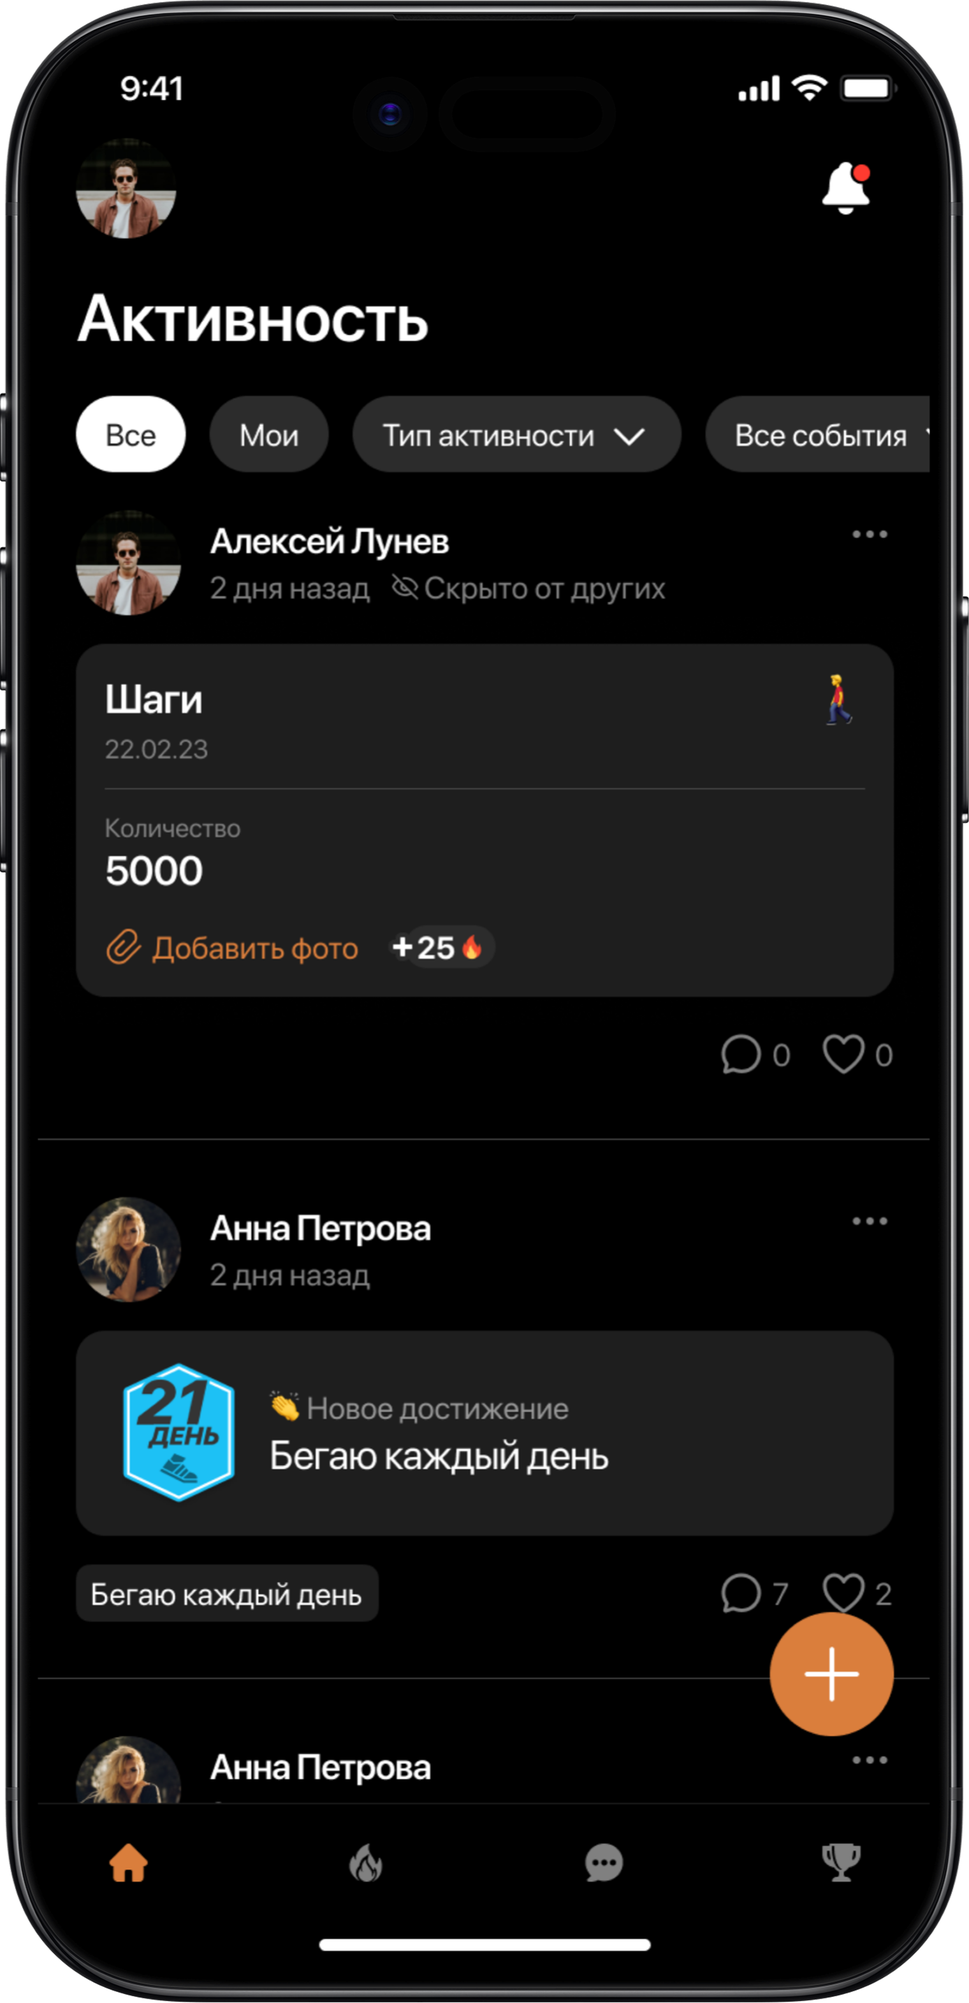
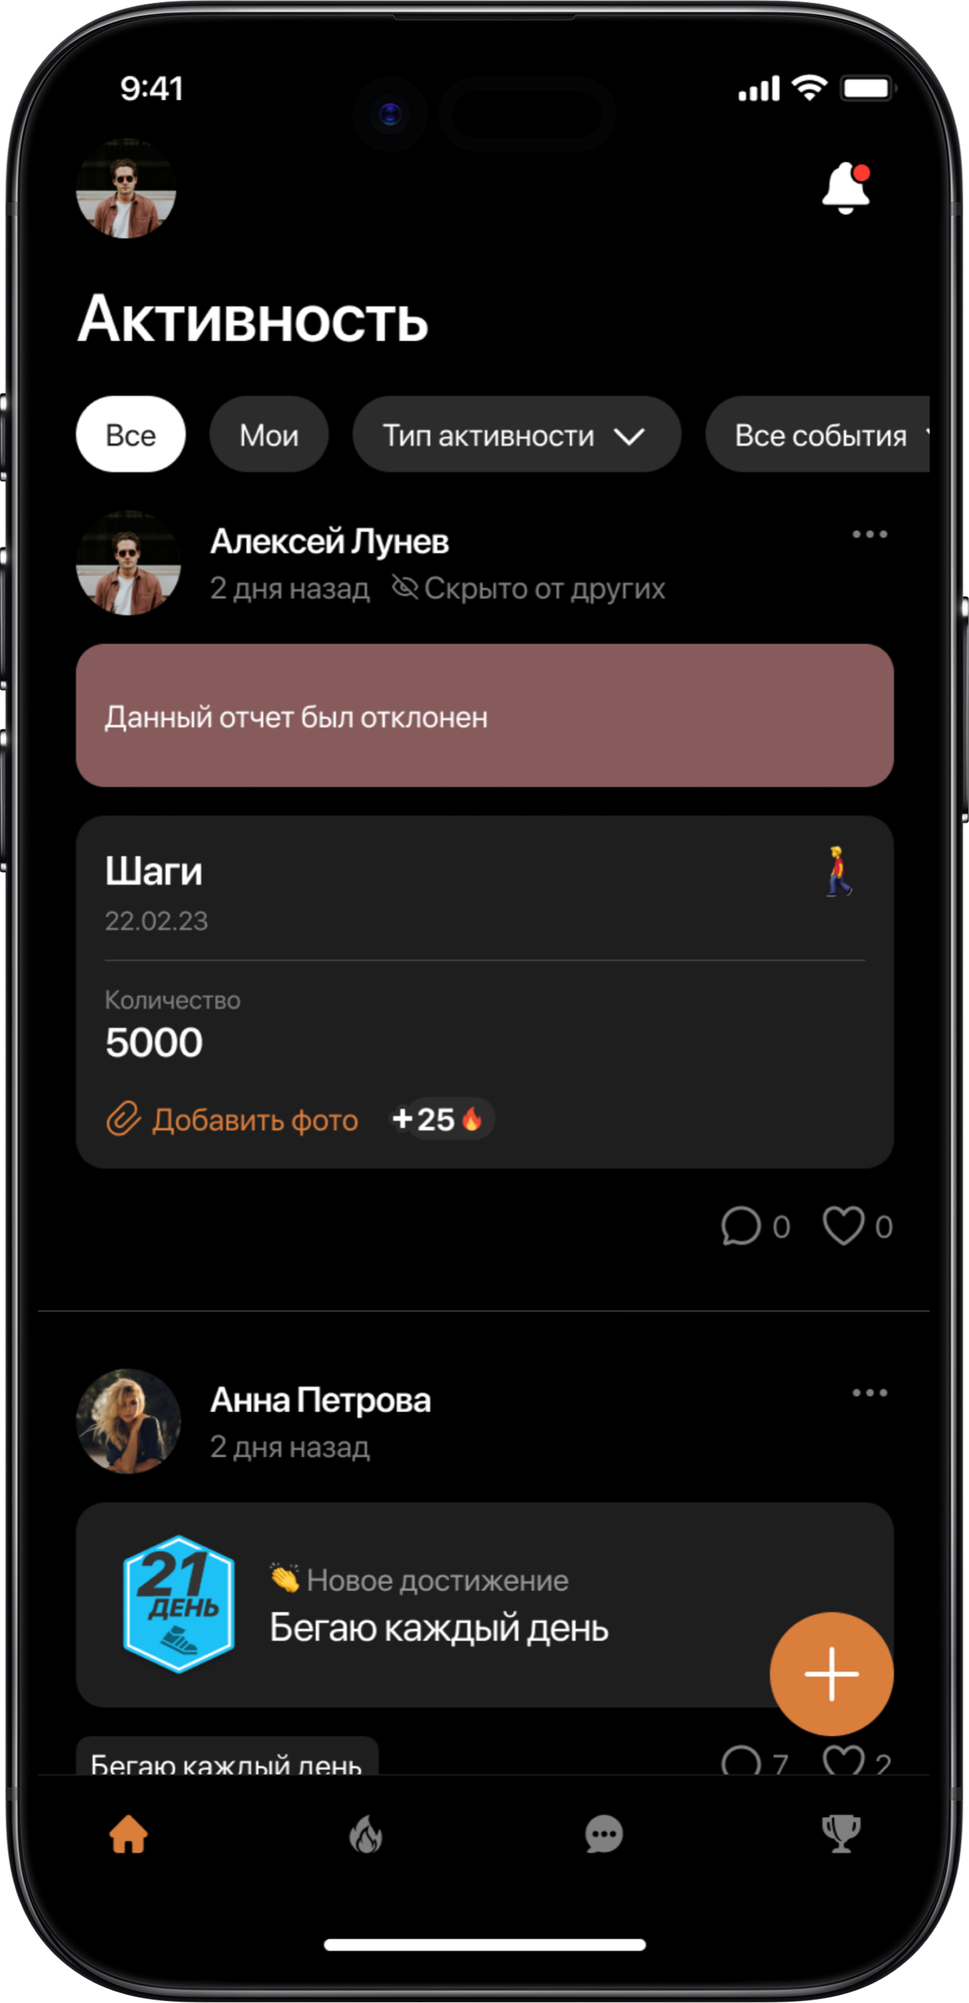
Align project layouts and update HealthFit redesign comparisons

Changed region(s): [[0.0618, 0.3118, 0.9276, 0.9354], [0.8349, 0.8731, 0.9276, 0.9354], [0.5875, 0.9042, 0.6493, 0.9354]]

diff --git a/lib/projects.ts b/lib/projects.ts
@@ -7,13 +7,13 @@ export type ProjectSection =
   | {
       kind: 'gallery';
       title?: string;
+      description?: { label: string; text: string }[];
       metric?: { label: string; value: string };
       images?: { src: string; alt?: string; aspect?: 'wide' | 'tall' | 'square' }[];
       // Explicit rows: each inner array is one row, all items share equal width.
       // Use when the editor wants precise control over which screens sit next to each other.
       rows?: string[][];
-      // Optional "before" screens for this section. When set, clicking the gallery
-      // swaps all new screens for these old ones (and back).
+      // Previous screens displayed next to the redesign.
       old?: string[];
       // 'fit' = stack each image at natural aspect, full width, no crop (good for web shots).
       // 'crop' (default for rows / legacy) = uniform aspect frame, object-cover.
@@ -164,6 +164,12 @@ export const projects: Project[] = [
       {
         kind: 'gallery',
         title: 'Регистрация',
+        description: [
+          { label: 'Контекст', text: 'Раньше для регистрации требовались логин и пароль. Это занимало много времени.' },
+          { label: 'Задача', text: 'Упростить регистрацию и вход в приложение.' },
+          { label: 'Инсайт', text: 'Пользователю приходилось запоминать логин и пароль, а затем переходить в почту, чтобы скопировать код подтверждения.' },
+          { label: 'Решение', text: 'Теперь пользователь вводит номер телефона и подтверждает его кодом из СМС. На втором экране видно, куда отправлен код. Его можно подставить одним нажатием на подсказку над клавиатурой.' },
+        ],
         metric: { label: 'Время прохождения регистрации', value: '-46%' },
         rowAspect: 'tall',
         old: [hf('reg-old', 1), hf('reg-old', 2), hf('reg-old', 3)],
@@ -172,14 +178,26 @@ export const projects: Project[] = [
       {
         kind: 'gallery',
         title: 'Главный экран',
+        description: [
+          { label: 'Контекст', text: 'Пользователи открывали приложение и не понимали, куда перейти с главного экрана и чем здесь можно заняться.' },
+          { label: 'Задача', text: 'Сделать навигацию понятной, чтобы с первого экрана было видно, зачем заходить в приложение.' },
+          { label: 'Инсайт', text: 'На вопрос «Чем заняться сегодня?» проще ответить, когда перед глазами есть конкретные занятия. По названиям разделов трудно представить, что ждёт внутри.' },
+          { label: 'Решение', text: 'Переработал главный экран и превратил его в каталог активностей. Теперь выбрать занятие можно сразу при входе в приложение.' },
+        ],
         metric: { label: 'MAU', value: '+36%' },
         old: [hf('main-old', 1)],
         rowAspect: 'tall',
-        rows: [[hf('main', 1)]],
+        rows: [[hf('main-redesign', 1), hf('main-redesign', 2)]],
       },
       {
         kind: 'gallery',
         title: 'Мои активности',
+        description: [
+          { label: 'Контекст', text: 'В разделе со своими активностями пользователи долго искали курс или трекер, в котором нужно было отметить выполнение.' },
+          { label: 'Задача', text: 'Выяснить, что мешает поиску, и помочь пользователям быстрее находить свои активности.' },
+          { label: 'Инсайт', text: 'Разговор о разделе «Мои активности» вышел за его рамки. Пользователи поделились общим впечатлением от приложения и рассказали о трудностях в других разделах.' },
+          { label: 'Решение', text: 'Разделил активности по направлениям и добавил индикаторы прогресса. Теперь видно, какие занятия уже пройдены и что можно продолжить.' },
+        ],
         metric: { label: 'Retention rate', value: '+10%' },
         old: [hf('my-old', 1)],
         rowAspect: 'tall',
@@ -188,6 +206,13 @@ export const projects: Project[] = [
       {
         kind: 'gallery',
         title: 'Каталог и карточка тренировки',
+        description: [
+          { label: 'Контекст', text: 'Каталог и карточки тренировок нужно было доработать вместе с главным экраном.' },
+          { label: 'Задача', text: 'Упростить карточки активностей и сделать текст курса удобнее для чтения.' },
+          { label: 'Инсайт', text: 'Кнопками «О клубе» и «Чат клуба» никто не пользовался.' },
+          { label: 'Решение', text: 'Убрал из карточек невостребованные кнопки. Добавил серую подложку под текст курса и изменил цвет текста, чтобы его было легче читать.' },
+        ],
+        metric: { label: 'Выполненных заданий на платформе', value: '+2.2%' },
         old: [hf('catalog-old', 1), hf('catalog-old', 2)],
         rowAspect: 'tall',
         rows: [[hf('catalog', 1), hf('catalog', 2)]],
@@ -195,6 +220,12 @@ export const projects: Project[] = [
       {
         kind: 'gallery',
         title: 'ИИ помощник',
+        description: [
+          { label: 'Контекст', text: 'В каталоге более 300 курсов, челленджей и трекеров. Пользователям было сложно выбрать подходящее занятие.' },
+          { label: 'Задача', text: 'Добавить персональные рекомендации.' },
+          { label: 'Инсайт', text: 'Пользователям важно, чтобы даже небольшие усилия замечали. Они хотят получать похвалу за свои действия.' },
+          { label: 'Решение', text: 'Создал ИИ-помощника, который подбирает занятия по ответам на вопросы теста. Добавил раздел, где можно посмотреть, что помощник узнал о пользователе.' },
+        ],
         metric: { label: 'Конверсия теста', value: '+30%' },
         old: [hf('ai-old', 1)],
         rowAspect: 'tall',
@@ -206,6 +237,12 @@ export const projects: Project[] = [
       {
         kind: 'gallery',
         title: 'Активность',
+        description: [
+          { label: 'Контекст', text: 'После отклонения отчёта в ленте активности пользователи писали в поддержку. Также поступали жалобы на списание баллов, которые пользователи не тратили на товары.' },
+          { label: 'Задача', text: 'Снизить нагрузку на поддержку и упростить общение с пользователями.' },
+          { label: 'Инсайт', text: 'Пользователь был уверен, что отправил корректный отчёт. Он видел отметку об отклонении, но не понимал, где искать объяснение.' },
+          { label: 'Решение', text: 'Сделал причину отклонения заметнее и добавил возможность быстро подать апелляцию.' },
+        ],
         metric: { label: 'Обращения в поддержку по отклонённым отчётам', value: '−36%' },
         old: [hf('activity-old', 1)],
         rowAspect: 'tall',
@@ -214,6 +251,11 @@ export const projects: Project[] = [
       {
         kind: 'gallery',
         title: 'Маркетплейс',
+        description: [
+          { label: 'Контекст', text: 'Пользователям не всегда хватало коинов на желанный товар. Пока они копили нужную сумму, товар мог закончиться.' },
+          { label: 'Задача', text: 'Дать пользователю возможность купить товар, даже если коинов пока не хватает.' },
+          { label: 'Решение', text: 'Добавил доплату рублями. Теперь часть стоимости можно покрыть коинами, а остаток оплатить банковской картой.' },
+        ],
         metric: { label: 'Средний чек', value: 'Скоро будут результаты' },
         old: [hf('market-old', 1), hf('market-old', 2)],
         rowAspect: 'tall',

diff --git a/app/projects/[slug]/page.tsx b/app/projects/[slug]/page.tsx
@@ -4,7 +4,6 @@ import { projects, getProject, type ProjectSection } from '@/lib/projects';
 import { site, withBase } from '@/lib/site';
 import { Header } from '@/components/Header';
 import { Footer } from '@/components/Footer';
-import { CompareGallery } from '@/components/CompareGallery';
 
 type Params = Promise<{ slug: string }>;
 
@@ -35,8 +34,8 @@ export default async function ProjectPage({ params }: { params: Params }) {
       <Header />
 
       {/* Case hero */}
-      <section className="pt-32 md:pt-40 pb-16 md:pb-24 px-6 md:px-10">
-        <div className="mx-auto max-w-page">
+      <section className="pt-32 md:pt-40 pb-16 md:pb-24 px-[max(16px,3.5%)]">
+        <div className="mx-auto w-full">
           <Link
             href="/#projects"
             className="inline-flex items-center gap-2 font-display font-medium text-xs uppercase tracking-wider text-chalk-300 underline-grow"
@@ -65,7 +64,7 @@ export default async function ProjectPage({ params }: { params: Params }) {
 
       {/* Cover image — default 320px (mobile-screen size), per-project override via coverWidth */}
       {project.cover && (
-        <div className="px-6 md:px-10">
+        <div className="px-[max(16px,3.5%)]">
           <div className="mx-auto" style={{ maxWidth: project.coverWidth ?? 320 }}>
             <div className="overflow-hidden rounded-2xl bg-ink-800 hairline border">
               <img
@@ -80,8 +79,8 @@ export default async function ProjectPage({ params }: { params: Params }) {
 
       {/* Outcome — surfaced right after the cover, before the deep-dive sections */}
       {project.outcome && (
-        <section className="px-6 md:px-10 pt-16 md:pt-24">
-          <div className="mx-auto max-w-page">
+        <section className="px-[max(16px,3.5%)] pt-16 md:pt-24">
+          <div className="mx-auto w-full">
             <div className="rounded-2xl border hairline p-8 md:p-12 bg-ink-800/50">
               <p className="font-display font-medium text-xs uppercase tracking-[0.18em] text-chalk-300 mb-4">
                 Результат
@@ -111,8 +110,8 @@ export default async function ProjectPage({ params }: { params: Params }) {
       )}
 
       {/* Sections */}
-      <article className="px-6 md:px-10 py-20 md:py-32">
-        <div className="mx-auto max-w-page space-y-20 md:space-y-32">
+      <article className="px-[max(16px,3.5%)] py-20 md:py-32">
+        <div className="mx-auto w-full space-y-20 md:space-y-32">
           {project.sections.map((section, i) => (
             <SectionBlock key={i} section={section} index={i} />
           ))}
@@ -120,8 +119,8 @@ export default async function ProjectPage({ params }: { params: Params }) {
       </article>
 
       {/* Next project */}
-      <section className="border-t hairline px-6 md:px-10 py-16 md:py-24">
-        <div className="mx-auto max-w-page">
+      <section className="border-t hairline px-[max(16px,3.5%)] py-16 md:py-24">
+        <div className="mx-auto w-full">
           <Link href={`/projects/${next.slug}`} className="group block">
             <p className="font-display font-medium text-xs uppercase tracking-[0.18em] text-chalk-300 mb-3">
               Следующий проект
@@ -142,7 +141,7 @@ export default async function ProjectPage({ params }: { params: Params }) {
         </div>
       </section>
 
-      <Footer />
+      <Footer wide />
     </main>
   );
 }
@@ -160,7 +159,7 @@ function Meta({ label, children }: { label: string; children: React.ReactNode })
 
 function MetricCard({ label, value }: { label: string; value: string }) {
   return (
-    <div className="mx-auto w-full max-w-[480px] rounded-[28px] bg-[#202122] px-6 py-5 sm:px-7 sm:py-6">
+    <div className="w-full rounded-[28px] bg-[#202122] px-6 py-5 sm:px-7 sm:py-6">
       <p className="text-xl text-chalk-300">{label}</p>
       <p className={`mt-2 leading-tight tracking-tight text-chalk-50 ${value.length > 10 ? 'text-xl sm:text-2xl' : 'text-3xl sm:text-4xl'}`}>{value}</p>
     </div>
@@ -169,6 +168,40 @@ function MetricCard({ label, value }: { label: string; value: string }) {
 
 function SectionBlock({ section, index }: { section: ProjectSection; index: number }) {
   if (section.kind === 'gallery') {
+    if (section.rows && section.old) {
+      return (
+        <section className="grid items-start gap-6 md:grid-cols-2 lg:grid-cols-[0.85fr_1fr_1fr] lg:gap-8">
+          <div className="min-w-0 space-y-5 md:col-span-2 lg:col-span-1">
+            <h3 className="font-display text-xl md:text-2xl font-medium leading-tight tracking-tight">{section.title}</h3>
+            {section.metric && <MetricCard {...section.metric} />}
+            <dl className="max-w-prose space-y-4 leading-relaxed">
+              {section.description?.map(({ label, text }) => (
+                <div key={label}>
+                  <dt className="font-semibold text-white">{label}</dt>
+                  <dd className="text-chalk-300">{text}</dd>
+                </div>
+              ))}
+            </dl>
+          </div>
+          {[
+            { label: 'После редизайна', screens: section.rows.flat() },
+            { label: 'До редизайна', screens: section.old },
+          ].map(({ label, screens }) => (
+            <div key={label} className="min-w-0">
+              <h4 className="mb-4 font-medium text-chalk-300">{label}</h4>
+              <div className={screens.length > 1 ? 'grid grid-cols-2 items-start gap-3' : 'max-w-xs'}>
+                {screens.map((src, i) => (
+                  <a key={src} href={withBase(src)} className="block overflow-hidden rounded-xl border hairline">
+                    <img src={withBase(src)} alt={[section.title, label, 'экран ' + (i + 1)].join(' — ')} loading="lazy" className="block h-auto w-full" />
+                  </a>
+                ))}
+              </div>
+            </div>
+          ))}
+        </section>
+      );
+    }
+
     let body: React.ReactNode;
 
     // --- Rows-mode: explicit groupings, equal columns per row, natural aspect (no crop) ---
@@ -198,24 +231,6 @@ function SectionBlock({ section, index }: { section: ProjectSection; index: numb
         </div>
       );
 
-      // Old-version toggle: "before" screens, each sized like one column of the first row.
-      if (section.old) {
-        const cols = Math.max(section.rows[0].length, section.old.length);
-        const controlWrapClassName =
-          section.title === 'Главный экран' || section.title === 'Мои активности'
-            ? 'mx-auto max-w-2xl'
-            : undefined;
-        body = (
-          <CompareGallery
-            oldSrcs={section.old.map((s) => withBase(s))}
-            oldWrapClassName={`mx-auto ${rowMaxWidth(cols)}`}
-            controlWrapClassName={controlWrapClassName}
-            cols={cols}
-          >
-            {body}
-          </CompareGallery>
-        );
-      }
     } else if (section.layout === 'fit' && section.images) {
       // --- Fit-mode: stack at natural aspect, no crop. maxWidth optional (default 768) ---
       body = (

diff --git a/components/Footer.tsx b/components/Footer.tsx
@@ -1,9 +1,9 @@
 import { site } from '@/lib/site';
 
-export function Footer() {
+export function Footer({ wide = false }: { wide?: boolean }) {
   return (
-    <footer className="border-t hairline px-6 md:px-10 py-10">
-      <div className="mx-auto max-w-page text-xs font-display font-medium uppercase tracking-wider text-chalk-300">
+    <footer className={`border-t hairline py-10 ${wide ? 'px-[max(16px,3.5%)]' : 'px-6 md:px-10'}`}>
+      <div className={`mx-auto text-xs font-display font-medium uppercase tracking-wider text-chalk-300 ${wide ? 'w-full' : 'max-w-page'}`}>
         <p>© {new Date().getFullYear()} {site.name}. Все права защищены.</p>
       </div>
     </footer>

diff --git a/components/Header.tsx b/components/Header.tsx
@@ -4,7 +4,7 @@ import { site } from '@/lib/site';
 export function Header({ wide = false }: { wide?: boolean }) {
   return (
     <header className={`fixed top-0 inset-x-0 z-50 ${wide ? 'text-white' : 'mix-blend-difference text-chalk-50'}`}>
-      <div className={`mx-auto py-5 flex items-center justify-between ${wide ? 'px-[max(16px,3.5%)]' : 'max-w-page px-6 md:px-10'}`}>
+      <div className={`mx-auto py-5 flex items-center justify-between px-[max(16px,3.5%)]`}>
         <Link
           href="/"
           className="inline-flex items-center"
